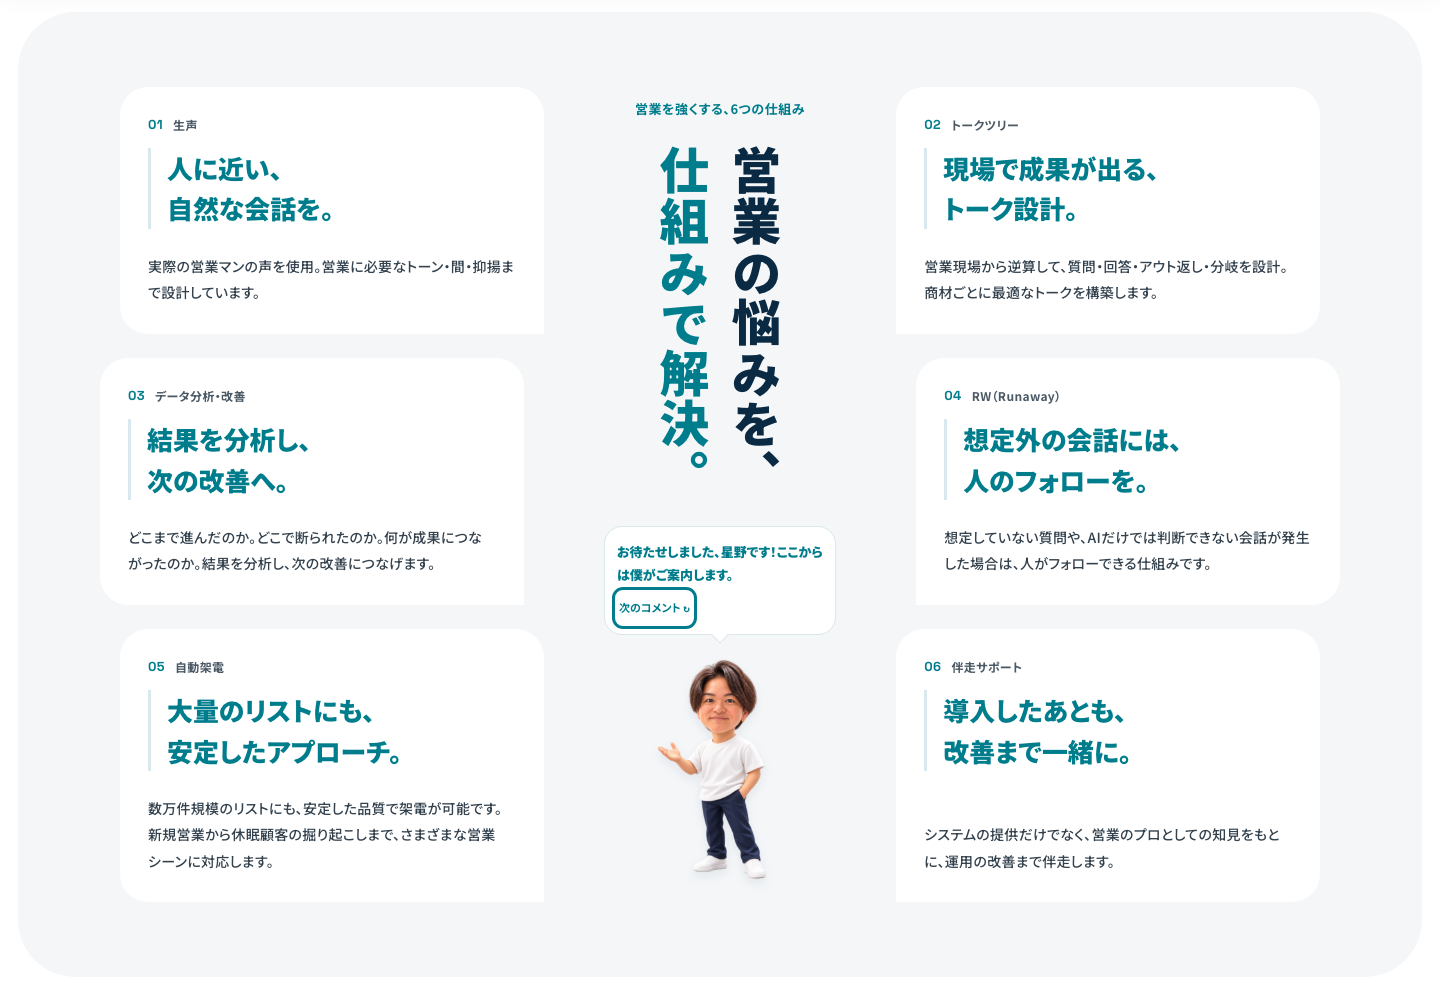
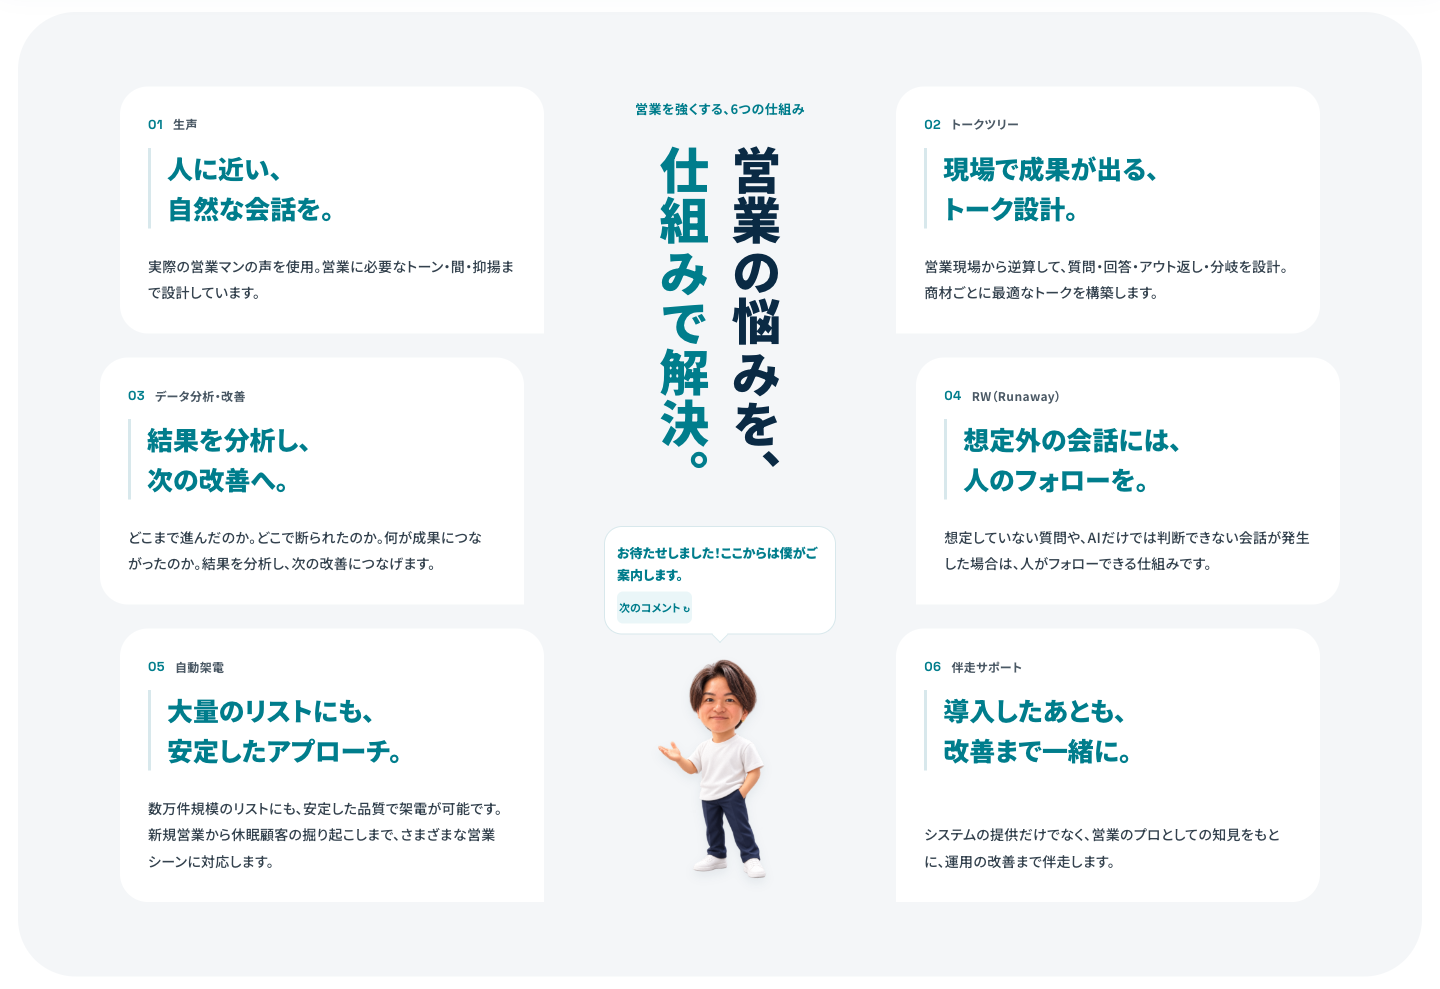
Remove unintended name from president comment copy

diff --git a/index.html b/index.html
@@ -414,9 +414,9 @@
             <h2 class="telemo-benefits__title" id="telemo-core-title"><span>営業の悩みを、</span><strong>仕組みで解決。</strong></h2>
             <div class="telemo-benefits__character lpsr-benefits-founder" data-lpsr-founder>
               <div class="telemo-benefits__speech lpsr-guide-comments">
-                <p class="lpsr-guide-comments__text" data-guide-line role="status" aria-live="polite">お待たせしました、星野です！ここからは僕がご案内します。</p>
+                <p class="lpsr-guide-comments__text" data-guide-line role="status" aria-live="polite">お待たせしました！ここからは僕がご案内します。</p>
                 <div class="lpsr-guide-comments__tools">
-                  <button type="button" data-guide-next aria-label="星野社長の次のコメントを読む">次のコメント ↻</button>
+                  <button type="button" data-guide-next aria-label="社長の次のコメントを読む">次のコメント ↻</button>
                 </div>
               </div>
               <button class="lpsr-benefits-founder__replay" type="button" aria-label="社長の登場アニメーションをもう一度再生" title="クリックしてもう一度再生">
@@ -823,7 +823,7 @@
     <script src="https://cdn.jsdelivr.net/npm/gsap@3.15/dist/ScrollTrigger.min.js" defer></script>
     <script src="./telemo-listen.js?v=20261019a" defer></script>
     <script src="./telemo-compare-count.js?v=20261013a" defer></script>
-    <script src="./telemo-guide-comments.js?v=20261022a" defer></script>
+    <script src="./telemo-guide-comments.js?v=20261022b" defer></script>
     <script src="./telemo-benefits-founder.js?v=20261022e" defer></script>
   </body>
 </html>

diff --git a/telemo-guide-comments.js b/telemo-guide-comments.js
@@ -5,7 +5,7 @@
   const next = root.querySelector('[data-guide-next]');
   const motion = matchMedia('(prefers-reduced-motion: reduce)');
   const lines = [
-    'お待たせしました、星野です！ここからは僕がご案内します。',
+    'お待たせしました！ここからは僕がご案内します。',
     '声も、トーク設計も。営業現場の知見を詰め込んでいます。',
     '結果を見て、一緒に改善。その積み重ねが大切なんです。',
   ];

diff --git a/docs/design/benefits-founder-comments.md b/docs/design/benefits-founder-comments.md
@@ -1,8 +1,8 @@
-# 星野社長の中央コメント — 2026-10-22
+# 社長の中央コメント — 2026-10-22
 
-中央に登場した星野社長が、吹き出しで挨拶します。コメントは次の順に8秒間隔で切り替わり、最後のコメントで止まります。「次のコメント」でも切り替えられ、操作後は自動切り替えを止めます。
+中央に登場した社長が、吹き出しで挨拶します。コメントは次の順に8秒間隔で切り替わり、最後のコメントで止まります。「次のコメント」でも切り替えられ、操作後は自動切り替えを止めます。
 
-1. お待たせしました、星野です！ここからは僕がご案内します。
+1. お待たせしました！ここからは僕がご案内します。
 2. 声も、トーク設計も。営業現場の知見を詰め込んでいます。
 3. 結果を見て、一緒に改善。その積み重ねが大切なんです。
 
